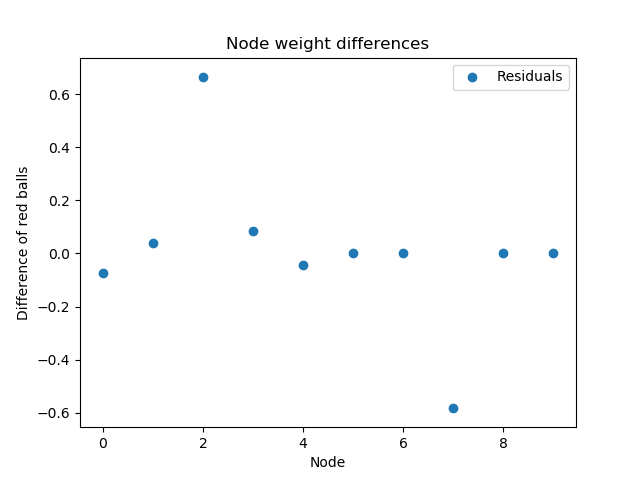
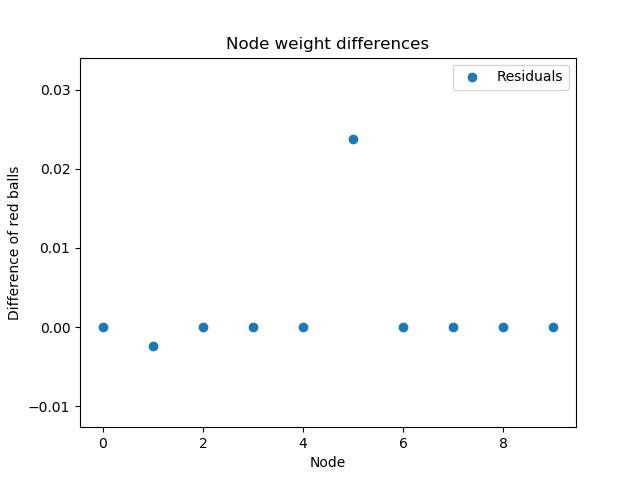
Fixed sorting mismatch error in heuristic comparison

diff --git a/model/optimize.py b/model/optimize.py
@@ -37,9 +37,9 @@ def heuristic_optimize(network):
         total += node.degree if node.degree > 1 else 0
 
     m = num_balls / total
-    network.nodes = sorted(network.nodes, key=lambda n: n.degree, reverse=True)
+    node_list = sorted(network.nodes, key=lambda n: n.degree, reverse=True)
 
-    for node in network.nodes:
+    for node in node_list:
         print(node)
         node_balls = ceil(m * node.degree) if num_balls > 0 else 0
         num_balls -= node_balls

diff --git a/execute/run_heuristic.py b/execute/run_heuristic.py
@@ -8,8 +8,7 @@ net = network(10)
 net.optimize_initial(False, True)
 net.plot_network(1)
 
-net.optimize_initial(False, False)
-
+net.optimize_initial(True, False)
 net.plot_network(2, blocking=False)
 plot_weight_delta(net)
 show()
